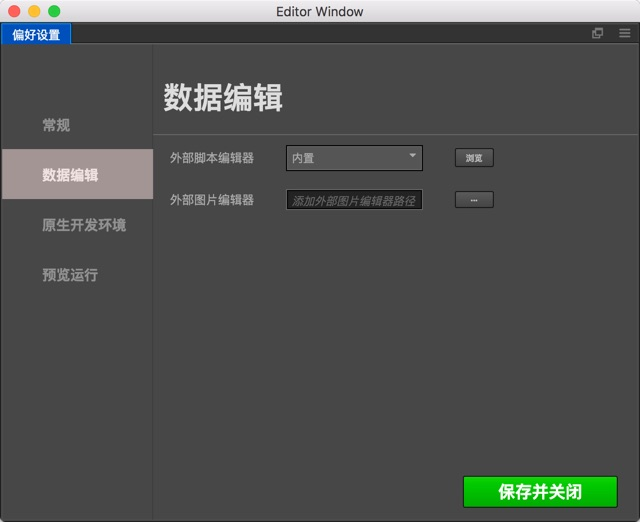
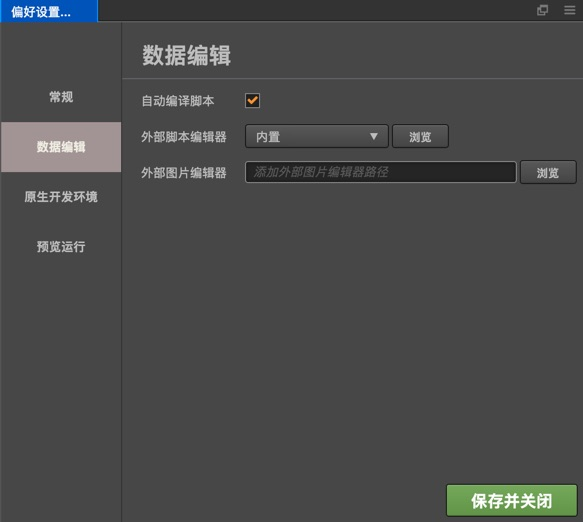
added project-setting doc

Changed region(s): [[0.0, 0.0, 1.0, 1.0], [0.0, 0.1533, 0.9571, 0.5517], [0.0, 0.9808, 0.0309, 1.0]]

diff --git a/source/zh/basics/editor-overview.md b/source/zh/basics/editor-overview.md
@@ -10,7 +10,7 @@
 
 **资源管理器**里显示了项目资源文件夹（`assets`）中的所有资源。这里会以树状结构显示文件夹并自动同步在操作系统中对项目资源文件夹内容的修改。您可以将文件从项目外面直接拖拽进来，或使用菜单导入资源。
 
-详情请阅读[资源管理器](editor-panels/assets.md)一节。
+详情请阅读 [资源管理器](editor-panels/assets.md) 一节。
 
 ## 场景编辑器
 
@@ -18,7 +18,7 @@
 
 **场景编辑器**是用来展示和编辑场景中可视内容的工作区域。所见即所得的场景搭建工作都依靠场景编辑器中的显示来完成。
 
-详情请阅读[场景编辑器](editor-panels/scene.md)一节。
+详情请阅读 [场景编辑器](editor-panels/scene.md) 一节。
 
 ## 层级管理器
 
@@ -26,7 +26,7 @@
 
 **层级管理器**用树状列表的形式展示场景中的所有节点和他们的层级关系，所有在**场景编辑器**中看到的内容都可以在**层级管理器**中找到对应的节点条目，在编辑场景时这两个面板的内容会同步显示，一般我们也会同时使用这两个面板来搭建场景。
 
-详情请阅读[层级管理器](editor-panels/node-tree.md)一节。
+详情请阅读 [层级管理器](editor-panels/node-tree.md) 一节。
 
 ## 属性检查器
 
@@ -34,7 +34,7 @@
 
 **属性检查器**是我们查看并编辑当前选中节点和组件属性的工作区域，这个面板会以最适合的形式展示和编辑来自脚本定义的属性数据。
 
-详情请阅读[属性检查器](editor-panels/properties.md)一节。
+详情请阅读 [属性检查器](editor-panels/properties.md) 一节。
 
 ## 控件库
 
@@ -42,7 +42,7 @@
 
 **控件库** 预设控件的仓库库，可以通过拖拽方式添加到场景中，并且可以将用户自己的预制资源（prefab）添加到控件库里方便再次使用。
 
-详情请阅读[控件库](editor-panels/node-library.md)一节。
+详情请阅读 [控件库](editor-panels/node-library.md) 一节。
 
 ## 工具栏
 
@@ -50,7 +50,7 @@
 
 **工具栏**上包括了场景编辑工具和预览游戏时的操作按钮，最右边显示了远程测试和调试时使用访问地址，以及连接中的设备数。
 
-详情请阅读[工具栏](toolbar.md)一节。
+详情请阅读 [工具栏](toolbar.md) 一节。
 
 ## 偏好设置
 
@@ -58,4 +58,12 @@
 
 **偏好设置** 里提供各种编辑器个性化的全局设置，包括原生开发环境、游戏预览、脚本编辑工具等。
 
-详情请阅读[偏好设置](editor-panels/preferences.md)一节。
+详情请阅读 [偏好设置](editor-panels/preferences.md) 一节。
+
+## 项目设置
+
+![project-settings](editor-panels/project-settings/group.jpg)
+
+**项目设置** 里提供各种项目特定的个性化设置，包括分组设置、模块设置、预览运行等。
+
+详情请阅读 [项目设置](editor-panels/project-settings.md) 一节。

diff --git a/source/zh/basics/editor-panels/project-settings.md b/source/zh/basics/editor-panels/project-settings.md
@@ -1,0 +1,41 @@
+# 项目设置
+
+**项目设置** 面板通过主菜单的 「项目->项目设置...」 菜单打开，这里包括所有特定项目相关的设置。这些设置会保存在项目的 `settings/project.json` 文件里。如果需要在不同开发者之间同步项目设置，请将 `settings` 目录加入到版本控制。
+
+
+## 分组管理
+
+![group](group.jpg)
+
+目前项目设置中的分组管理主要为 [碰撞体系统](../../physics/index.md) 提供分组支持，详情请参考 [碰撞分组管理](../../physics/collision-group.md)。
+
+## 模块设置
+
+![module](module.jpg)
+
+这里的设置是针对发布 Web 版游戏时引擎中使用的模块进行裁剪，达到减小发布版引擎包体的效果。在列表中选中的模块在打包时将被引擎包括，未选中的模块会被裁剪掉。
+
+在这里设置裁剪能够大幅度的减小引擎包体，建议打包后进行完整的测试，避免在场景和脚本中使用裁剪掉的模块。
+
+## 预览运行
+
+**预览运行** 分页提供的选项和 [偏好设置面板](preferences.md) 里的 **预览运行** 分页类似，用于设置初始预览场景、分辨率等等，但只对当前项目生效。
+
+### 初始预览场景
+
+指定按下 **预览运行** 按钮时，会打开项目中哪个场景。如果设置为 **当前打开场景**，就会运行当前正在编辑的场景，此外也可以设置成一个固定的场景（比如项目总是需要从登录场景开始游戏）。
+
+### 设计分辨率，适配屏幕宽度/高度
+
+用于规定在新建场景或 **Canvas 组件** 时，Canvas 中默认的设计分辨率数值，以及 **Fit Height**, **Fit Width** 选项。
+
+### 模拟器设置类型
+
+用于设置模拟器预览分辨率和屏幕朝向，当这个选项设为 **全局** 时，会使用 **偏好设置** 里的模拟器分辨率和屏幕朝向设置。当设为 **项目** 时，会显示以下模拟器设置：
+
+- 模拟器横竖屏设置
+- 模拟器分辨率设置
+- 模拟器自定义分辨率
+
+以上选项和 **偏好设置** 面板中的设置方法一致。
+

diff --git a/source/zh/basics/editor-panels/preferences.md b/source/zh/basics/editor-panels/preferences.md
@@ -12,6 +12,14 @@
 
 可以选择中文或英文，修改语言设置后要重新启动 Cocos Creator 才能生效。
 
+### 层级管理器节点树状态
+
+切换层级管理器节点树默认状态是展开或折叠所有子节点，可以以下三种中选择
+
+- 全部展开
+- 全部折叠
+- 记住上一次状态
+
 ### 选择本机 IP 地址
 
 用户可以在本机有多个 IP 地址的情况下，手动选择其中之一作为预览时的默认地址和二维码地址。这里会列出所有本机的 IP，您也可以选择 **自动** 让编辑器帮您自动挑选一个 IP。
@@ -32,12 +40,27 @@
 
 **注意**：修改步长后要刷新编辑器窗口（按 Ctrl/Cmd + R），设置的步长才会生效。
 
+### meta 文件备份时显示确认
+
+在 meta 文件所属的资源丢失时，是否弹出对话框提示备份或删除 meta 文件。如果选择备份，可以在稍后手动恢复资源，并将 meta 文件手动拷贝回项目 `assets` 目录，放止资源相关的重要设置（如场景、prefab）丢失。
+
+### 导入图片自动裁剪
+
+导入图片时，是否自动裁剪掉图片的透明像素。不管默认选择如何，导入图片之后可以在图片资源上手动设置裁剪选项。
+
+### 默认开启 prefab 自动同步模式
+
+新建 prefab 时，是否自动开启 prefab 资源上的「自动同步」选项。开启自动同步后，保存 prefab 资源修改时会自动同步场景中所有该 prefab 的实例。
 
 ## 数据编辑
 
 ![data editing](preferences/data-editing.jpg)
 
 这一类别用来设置脚本和资源的默认打开方式。
+
+### 自动编译脚本
+
+是否自动监测项目中脚本文件的变化，并自动触发编译。如果关闭自动编译脚本选项后，可以手动通过菜单「开发者->手动编译脚本」或按 <kbd>F7</kbd> 来编译。
 
 ### 外部脚本编辑器
 

diff --git a/source/zh/asset-workflow/font.md b/source/zh/asset-workflow/font.md
@@ -50,6 +50,10 @@
 
 另外一种快捷使用指定资源创建字体节点的方法，是直接从 **资源管理器** 中拖拽字体文件（TTF 或位图字体都可以）到 **层级管理器** 中。和上面用菜单创建的唯一区别，是使用拖拽方式创建的文字节点会自动使用拖拽的字体资源来设置 **Label** 组件的 `File` 属性。
 
+## 位图字体合并渲染
+
+如果位图字体使用的贴图和其他 Sprite 使用的贴图是同一张，而且位图字体和 Sprite 之间没有插入使用其他贴图的渲染对象时，位图字体就可以和 Sprite 合并渲染批次。在放置位图字体资源时，请把 `.fnt` 文件、`.png` 文件和 Sprite 所使用的贴图文件放在一个文件夹下，然后参考 [自动图集工作流程](auto-atlas.md) 将位图字体的贴图和 Sprite 使用的贴图打包成一个图集，即可在原生和 WebGL 渲染环境下自动享受位图字体合并渲染的性能提升。
+
 <hr>
 
 继续前往 [粒子资源](particle.md) 说明文档。

diff --git a/source/zh/extension/install-and-share.md b/source/zh/extension/install-and-share.md
@@ -2,11 +2,11 @@
 
 当你启动 Cocos Creator 并且打开了一个指定项目后，Cocos Creator 会开始搜索并加载扩展包。Cocos Creator 有两个扩展包搜索路径，“全局扩展包路径”和“项目扩展包路径”。
 
-## 从插件商店获取插件
+## 从扩展商店获取扩展插件
 
-点击主菜单的 `插件/插件商店`，即可打开插件商店。
+点击主菜单的 `扩展/扩展商店`，即可打开扩展商店。
 
-在插件商店里可以搜索或浏览不同类别的插件，Cocos Creator 的编辑器插件会归类到 `Creator插件` 里。 
+在扩展商店里可以搜索或浏览不同类别的插件，Cocos Creator 的编辑器扩展插件会归类到 `Creator扩展` 里。
 
 
 ## 全局扩展包路径
